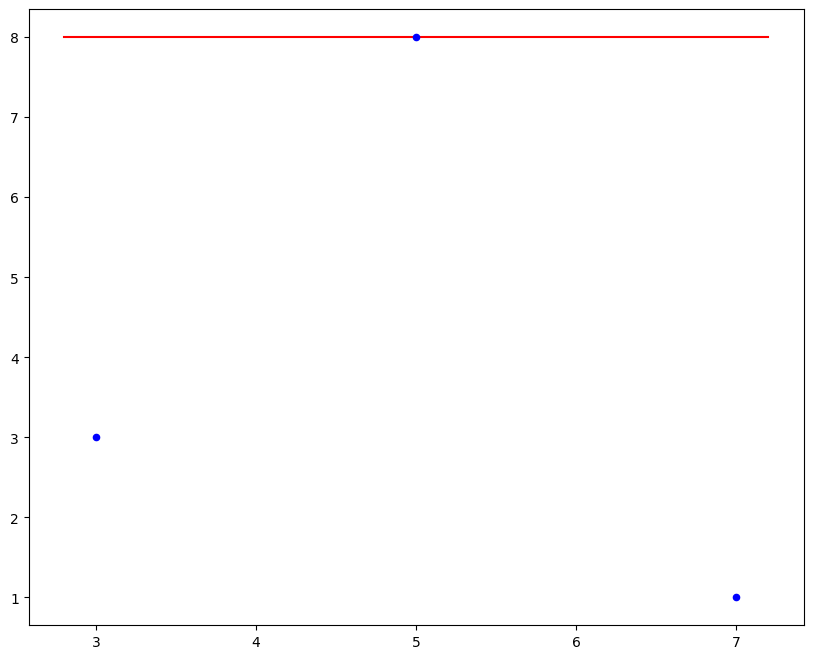
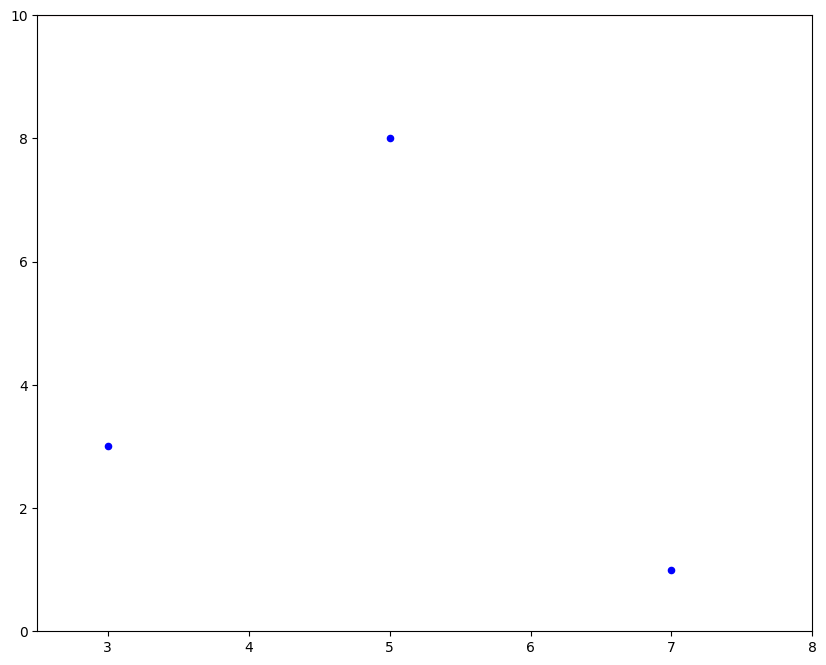
plots the parabolas at given time

diff --git a/voronoi/main.py b/voronoi/main.py
@@ -1,10 +1,12 @@
 from glibrary import Point, Line, Vector
 import numpy as np
+import math
 from matplotlib import pyplot as plt
 
+STEPS = 50
 f = 0
 
-def paint(p, input):
+def paint(input):
     global f
 
     xs = [p.x for p in input]
@@ -17,8 +19,29 @@ def paint(p, input):
     ax1.scatter(xs, ys, s=20, zorder=10, color='blue')
 
     # plot horizontal sweep line
+    plt.setp(ax1, xlim=(2.5, 8), ylim=(0, 10))
     xlim = ax1.get_xlim()
-    ax1.plot(list(xlim), [p.y, p.y], color="red")
+    ylim = ax1.get_ylim()
+    yRange = abs(ylim[1] - ylim[0])
+    dy = yRange / (STEPS * 1.0)
+
+    yValue = ylim[1] - (f * dy)
+    ax1.plot(list(xlim), [yValue, yValue], color="red")
+
+
+    for p in input:
+        if yValue <= p.y:
+            xp = list(np.linspace(xlim[0], xlim[1], STEPS))
+            yp = []
+            for x in xp:
+                try:
+                    y = ( (x - p.x)**2 + (p.y)**2 - (yValue)**2 ) / (2 * (p.y - yValue))
+                    yp.append(y)
+                except ZeroDivisionError:
+                    yp.append(math.inf)
+
+            ax1.plot(xp, yp, linewidth=2)
+
 
     figure = plt.gcf()
     figure.set_size_inches(10, 8)
@@ -30,9 +53,9 @@ def main():
     input = [Point(3, 3), Point(5, 8), Point(7, 1)]
     sorts = sorted(input, key=lambda p: p.y, reverse=True)
     print(sorts)
-    for p in sorts:
+    for i in range(STEPS):
         # PLOT
-        paint(p, sorts)
+        paint(sorts)
 
 if __name__ == "__main__":
     main()
